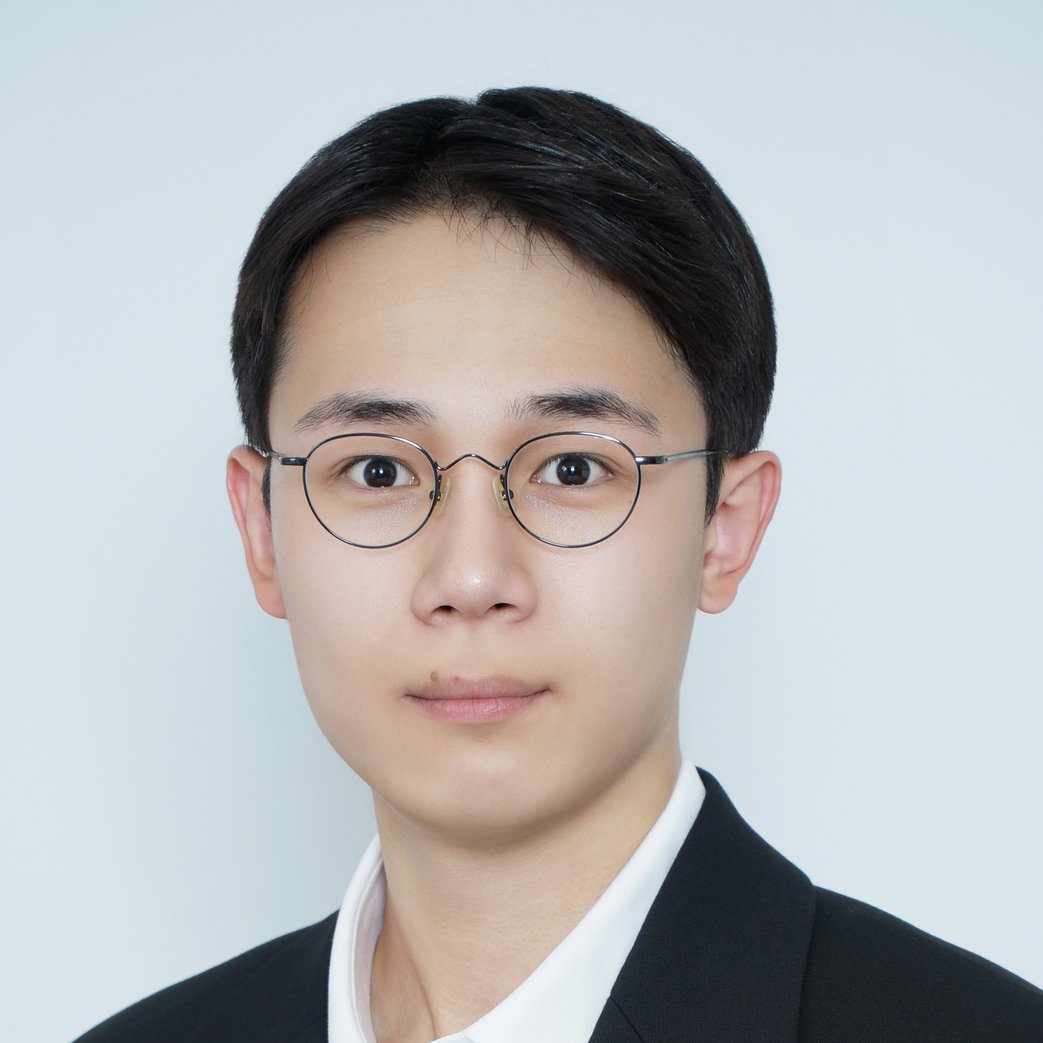
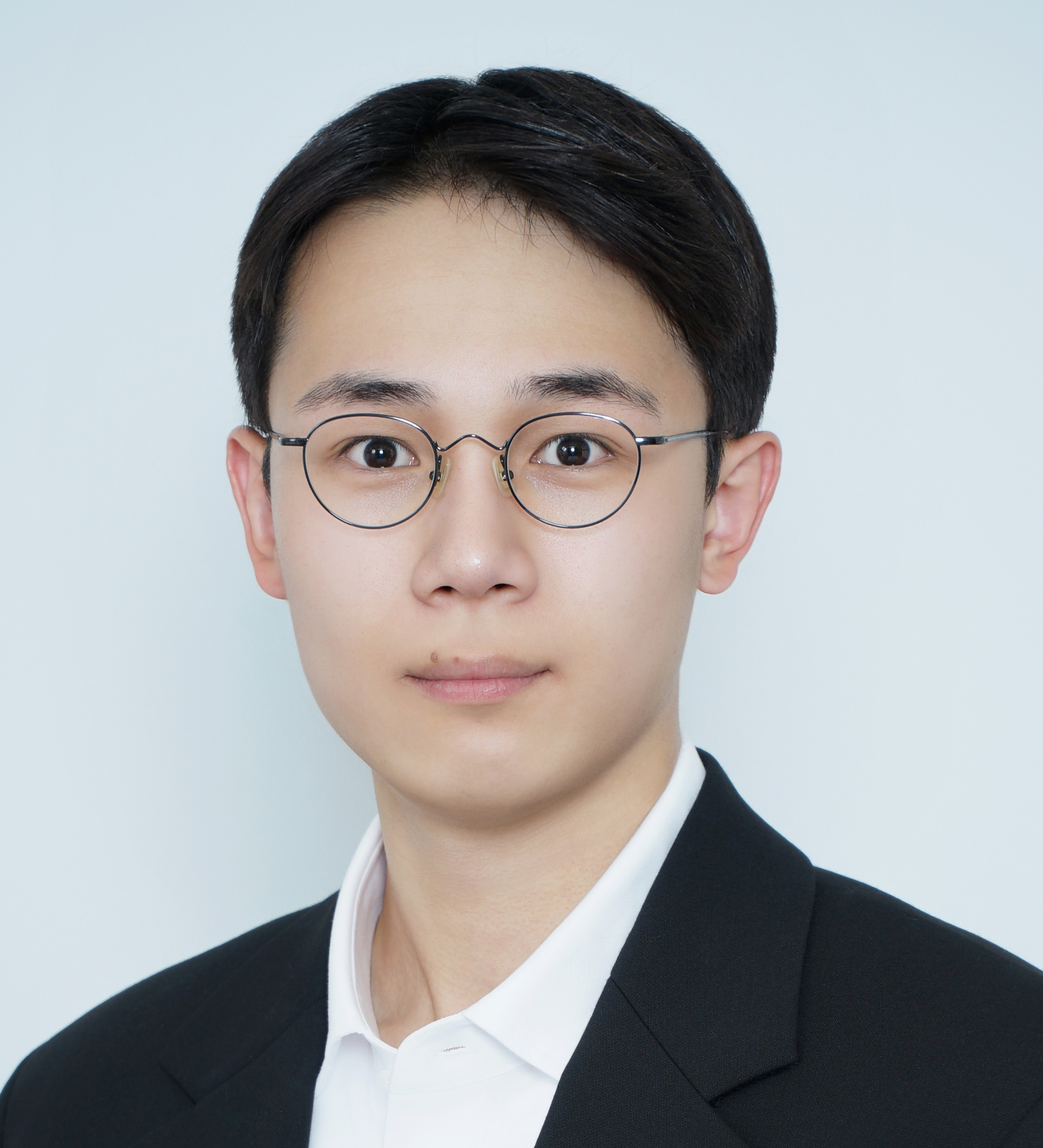
profile picture update

Changed region(s): [[0.0, 0.0312, 1.0, 1.0], [0.6875, 0.9375, 0.7188, 0.9688]]

diff --git a/index.html b/index.html
@@ -44,7 +44,7 @@
                 </p>
               </td>
               <td style="padding:2.5%;width:33%;max-width:33%;">
-                <img style="width:100%; max-width:100%; object-fit: cover; border-radius: 50%;" alt="profile photo" src="images/profile_2025.jpeg" class="hoverZoomLink">
+                <img style="width:100%; max-width:100%; object-fit: cover; border-radius: 0;" alt="profile photo" src="images/profile_2025.jpeg" class="hoverZoomLink">
               </td>
             </tr>
           </tbody></table>
